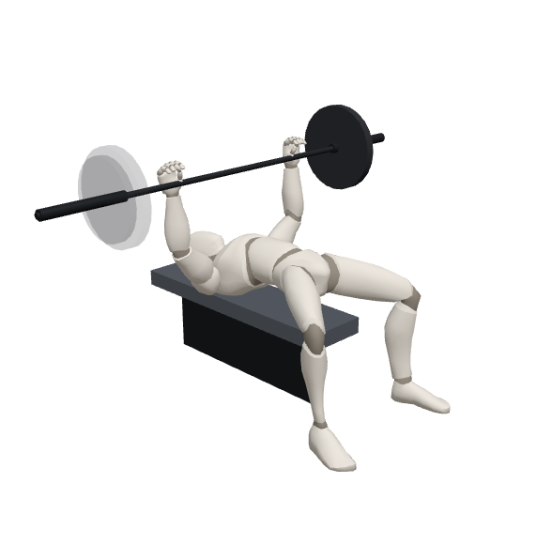
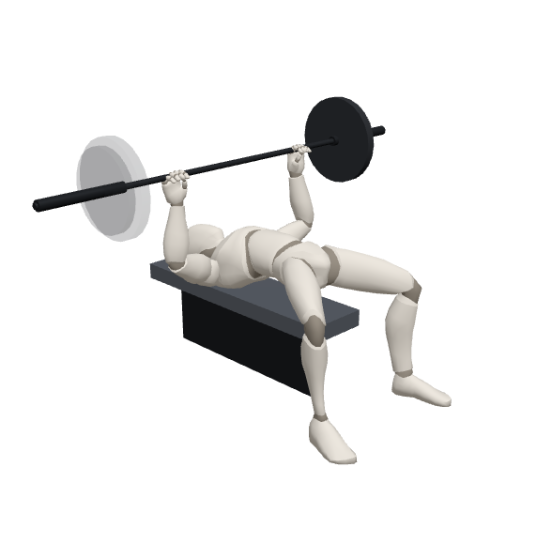
El puño agarra donde agarra un puño, y la página tiene pie
EL AGARRE, tercera y última capa del mismo fallo. Las dos anteriores pusieron bien la orientación de
la mano y la corrigieron por iteración hasta que el centro de la palma caía sobre la barra. Pero
«el centro de la palma» era un número puesto a ojo: medio palmo, 5 cm desde la muñeca. Medido ahora
sobre el propio modelo con la mano cerrada, los nudillos de los cuatro dedos están a 12 cm de la
muñeca y la segunda falange a 14,8: el hueco por donde pasa un mango está a 13, hundido 2 cm hacia
la palma. Con 5, la barra cruzaba por la MUÑECA y el puño se cerraba en el aire por encima — en el
press de banca y en el militar, que se miran de frente, cantaba.

Es la misma medida para la barra y para la mancuerna, porque un puño cerrado es un puño cerrado.

Y la página tiene pie: el aviso de salud, los derechos, y las licencias de lo que no es nuestro
—maniquí CC0, mapa muscular Apache 2.0, tipografías OFL—, que las tres piden que se diga. El año se
calcula: un pie que dice 2026 en 2028 es la señal más barata de que un sitio está abandonado.

Claude-Session: https://claude.ai/code/session_01XMvXWrcLVocq7tcBrDXEzd

diff --git a/src/figura/cinematica.js b/src/figura/cinematica.js
@@ -26,7 +26,20 @@ const SUFIJO = { i: 'L', d: 'R' };
 const SIGNO = { i: 1, d: -1 };
 
 const RADIO_BARRA = 0.014;
-const LARGO_PALMA = 0.05;
+
+/*
+ * DÓNDE CAE EL HUECO DEL PUÑO, medido con `scripts` sobre el propio modelo y no a ojo.
+ *
+ * Con la mano cerrada, los nudillos de los cuatro dedos quedan a 12 cm de la muñeca y la segunda
+ * falange a 14,8: el hueco por donde pasa un mango está entre los dos, a 13, y hundido 2 cm hacia
+ * el lado de la palma. El valor anterior era 5 cm —medio palmo, puesto a ojo—, y con él la barra
+ * cruzaba por la MUÑECA mientras el puño se cerraba en el aire por encima. En el press de banca y
+ * en el militar, que se miran de frente, cantaba.
+ *
+ * Es la misma medida para la barra y para la mancuerna: un puño cerrado es un puño cerrado.
+ */
+const AVANCE_AGARRE = 0.13;
+const HONDO_AGARRE = 0.02;
 /** Grosor de la almohadilla del pie: lo que queda entre la articulación de los dedos y el suelo. */
 const ALTURA_ALMOHADILLA = 0.028;
 
@@ -323,7 +336,7 @@ function resolverPunto(esq, spec, lado, implementos, raiz) {
     // El objetivo es la MUÑECA, y la barra tiene que cruzar la PALMA: por eso se suma también el
     // medio palmo que va de la muñeca al centro de la mano. Sin ese sumando, el primer plano
     // enseñaba el puño cerrado al lado de la barra y la barra a la altura de la muñeca.
-    return agarre.addScaledVector(radial, RADIO_BARRA + 0.03 + LARGO_PALMA);
+    return agarre.addScaledVector(radial, AVANCE_AGARRE);
   }
   if (spec.objetivo === 'banco') {
     const banco = implementos.banco;
@@ -421,8 +434,8 @@ function posarBrazo(esq, pose, l, Ftorax, implementos, anotar, avisos) {
         // Del centro de la palma a la muñeca: medio palmo hacia atrás y el radio de la barra más
         // el grosor de la mano hacia el lado contrario al que mira la palma.
         const objetivo = agarre.clone()
-          .addScaledVector(largo, -LARGO_PALMA)
-          .addScaledVector(palma, -(RADIO_BARRA + 0.03));
+          .addScaledVector(largo, -AVANCE_AGARRE)
+          .addScaledVector(palma, -HONDO_AGARRE);
         /*
          * Y UNA MANO NO LLEGA MÁS LEJOS QUE SU BRAZO.
          *
@@ -537,7 +550,7 @@ function posarBrazo(esq, pose, l, Ftorax, implementos, anotar, avisos) {
     enMano.eje = ejeMango;
     // El mango, en el hueco de la palma: a medio palmo de la muñeca y hundido hacia el lado de la
     // palma lo que mide el propio mango, o los dedos se cierran por detrás de él.
-    enMano.punto = posicion(huesos[`mano_${l}`]).addScaledVector(largo, LARGO_PALMA).addScaledVector(palma, 0.032);
+    enMano.punto = posicion(huesos[`mano_${l}`]).addScaledVector(largo, AVANCE_AGARRE).addScaledVector(palma, HONDO_AGARRE);
   } else {
     orientar(esq, huesos[`mano_${l}`], Fantebrazo);
   }

diff --git a/src/estilos/app.css b/src/estilos/app.css
@@ -740,17 +740,32 @@ h1, h2, h3 { letter-spacing: -0.02em; font-weight: var(--peso-semibold); }
 .vacio p { margin: 0; max-width: var(--medida-corta); }
 
 /*
- * El aviso de salud va en TODAS las pantallas, no solo en el catálogo: a una ficha se llega por
- * enlace directo —es lo que hace el botón de compartir— y quien entra así no pasa por la portada.
+ * El pie. Va en TODAS las pantallas, no solo en el catálogo: a una ficha se llega por enlace
+ * directo —es lo que hace el botón de compartir— y quien entra así no pasa por la portada.
+ *
+ * Tres bloques en orden de urgencia: el aviso de salud primero y con el texto normal, porque es lo
+ * único del pie que alguien tiene que leer; los derechos y las licencias después y más pequeños.
  */
-.aviso {
+.pie {
   margin-block: var(--e12) var(--e8);
-  padding-top: var(--e4);
+  padding-top: var(--e6);
   border-top: 1px solid var(--separador);
+  display: grid;
+  gap: var(--e4);
   color: var(--texto-secundario);
   font-size: var(--t-pequeno);
-  max-width: var(--medida-texto);
 }
+.pie .salud { margin: 0; max-width: var(--medida-texto); }
+.pie .legal {
+  display: flex;
+  flex-wrap: wrap;
+  gap: var(--e2) var(--e4);
+  align-items: baseline;
+  margin: 0;
+  font-size: var(--t-micro);
+}
+/* Los créditos, más apagados que los derechos: son obligatorios, no protagonistas. */
+.pie .creditos { color: color-mix(in oklab, var(--texto-secundario) 78%, var(--fondo)); }
 
 /*
  * El salto al contenido, visible solo con teclado: sin él, quien navega tabulando recorre el panel

diff --git a/src/main.ts b/src/main.ts
@@ -416,10 +416,24 @@ async function pintarFicha(ruta: Ruta): Promise<void> {
 /* ----------------------------------------------------------------- común -- */
 
 /*
- * El aviso va en TODAS las pantallas, no solo en el catálogo: a una ficha se llega por enlace
- * directo —es lo que hace el botón de compartir— y quien entra así no pasa por ninguna portada.
+ * El pie, en TODAS las pantallas. No solo en el catálogo: a una ficha se llega por enlace directo
+ * —es lo que hace el botón de compartir— y quien entra así no pasa por ninguna portada.
+ *
+ * Lleva tres cosas y las tres tienen que estar: el aviso de salud, de quién es esto, y de quién es
+ * lo que no es nuestro. Lo último no es cortesía: el maniquí es CC0, el mapa muscular Apache 2.0 y
+ * las tipografías OFL, y las tres licencias piden que se diga.
+ *
+ * El año se calcula, no se escribe: un pie que dice 2026 en 2028 es la señal más barata de que un
+ * sitio está abandonado.
  */
-const aviso = (): string => `<p class="aviso">${t('aviso.salud')}</p>`;
+const aviso = (): string => `
+  <footer class="pie">
+    <p class="salud">${t('aviso.salud')}</p>
+    <p class="legal">
+      <span>${t('pie.derechos').replace('{anio}', String(new Date().getFullYear()))}</span>
+      <span class="creditos">${t('pie.creditos')}</span>
+    </p>
+  </footer>`;
 
 function cabecera(ruta: Ruta): string {
   return `
